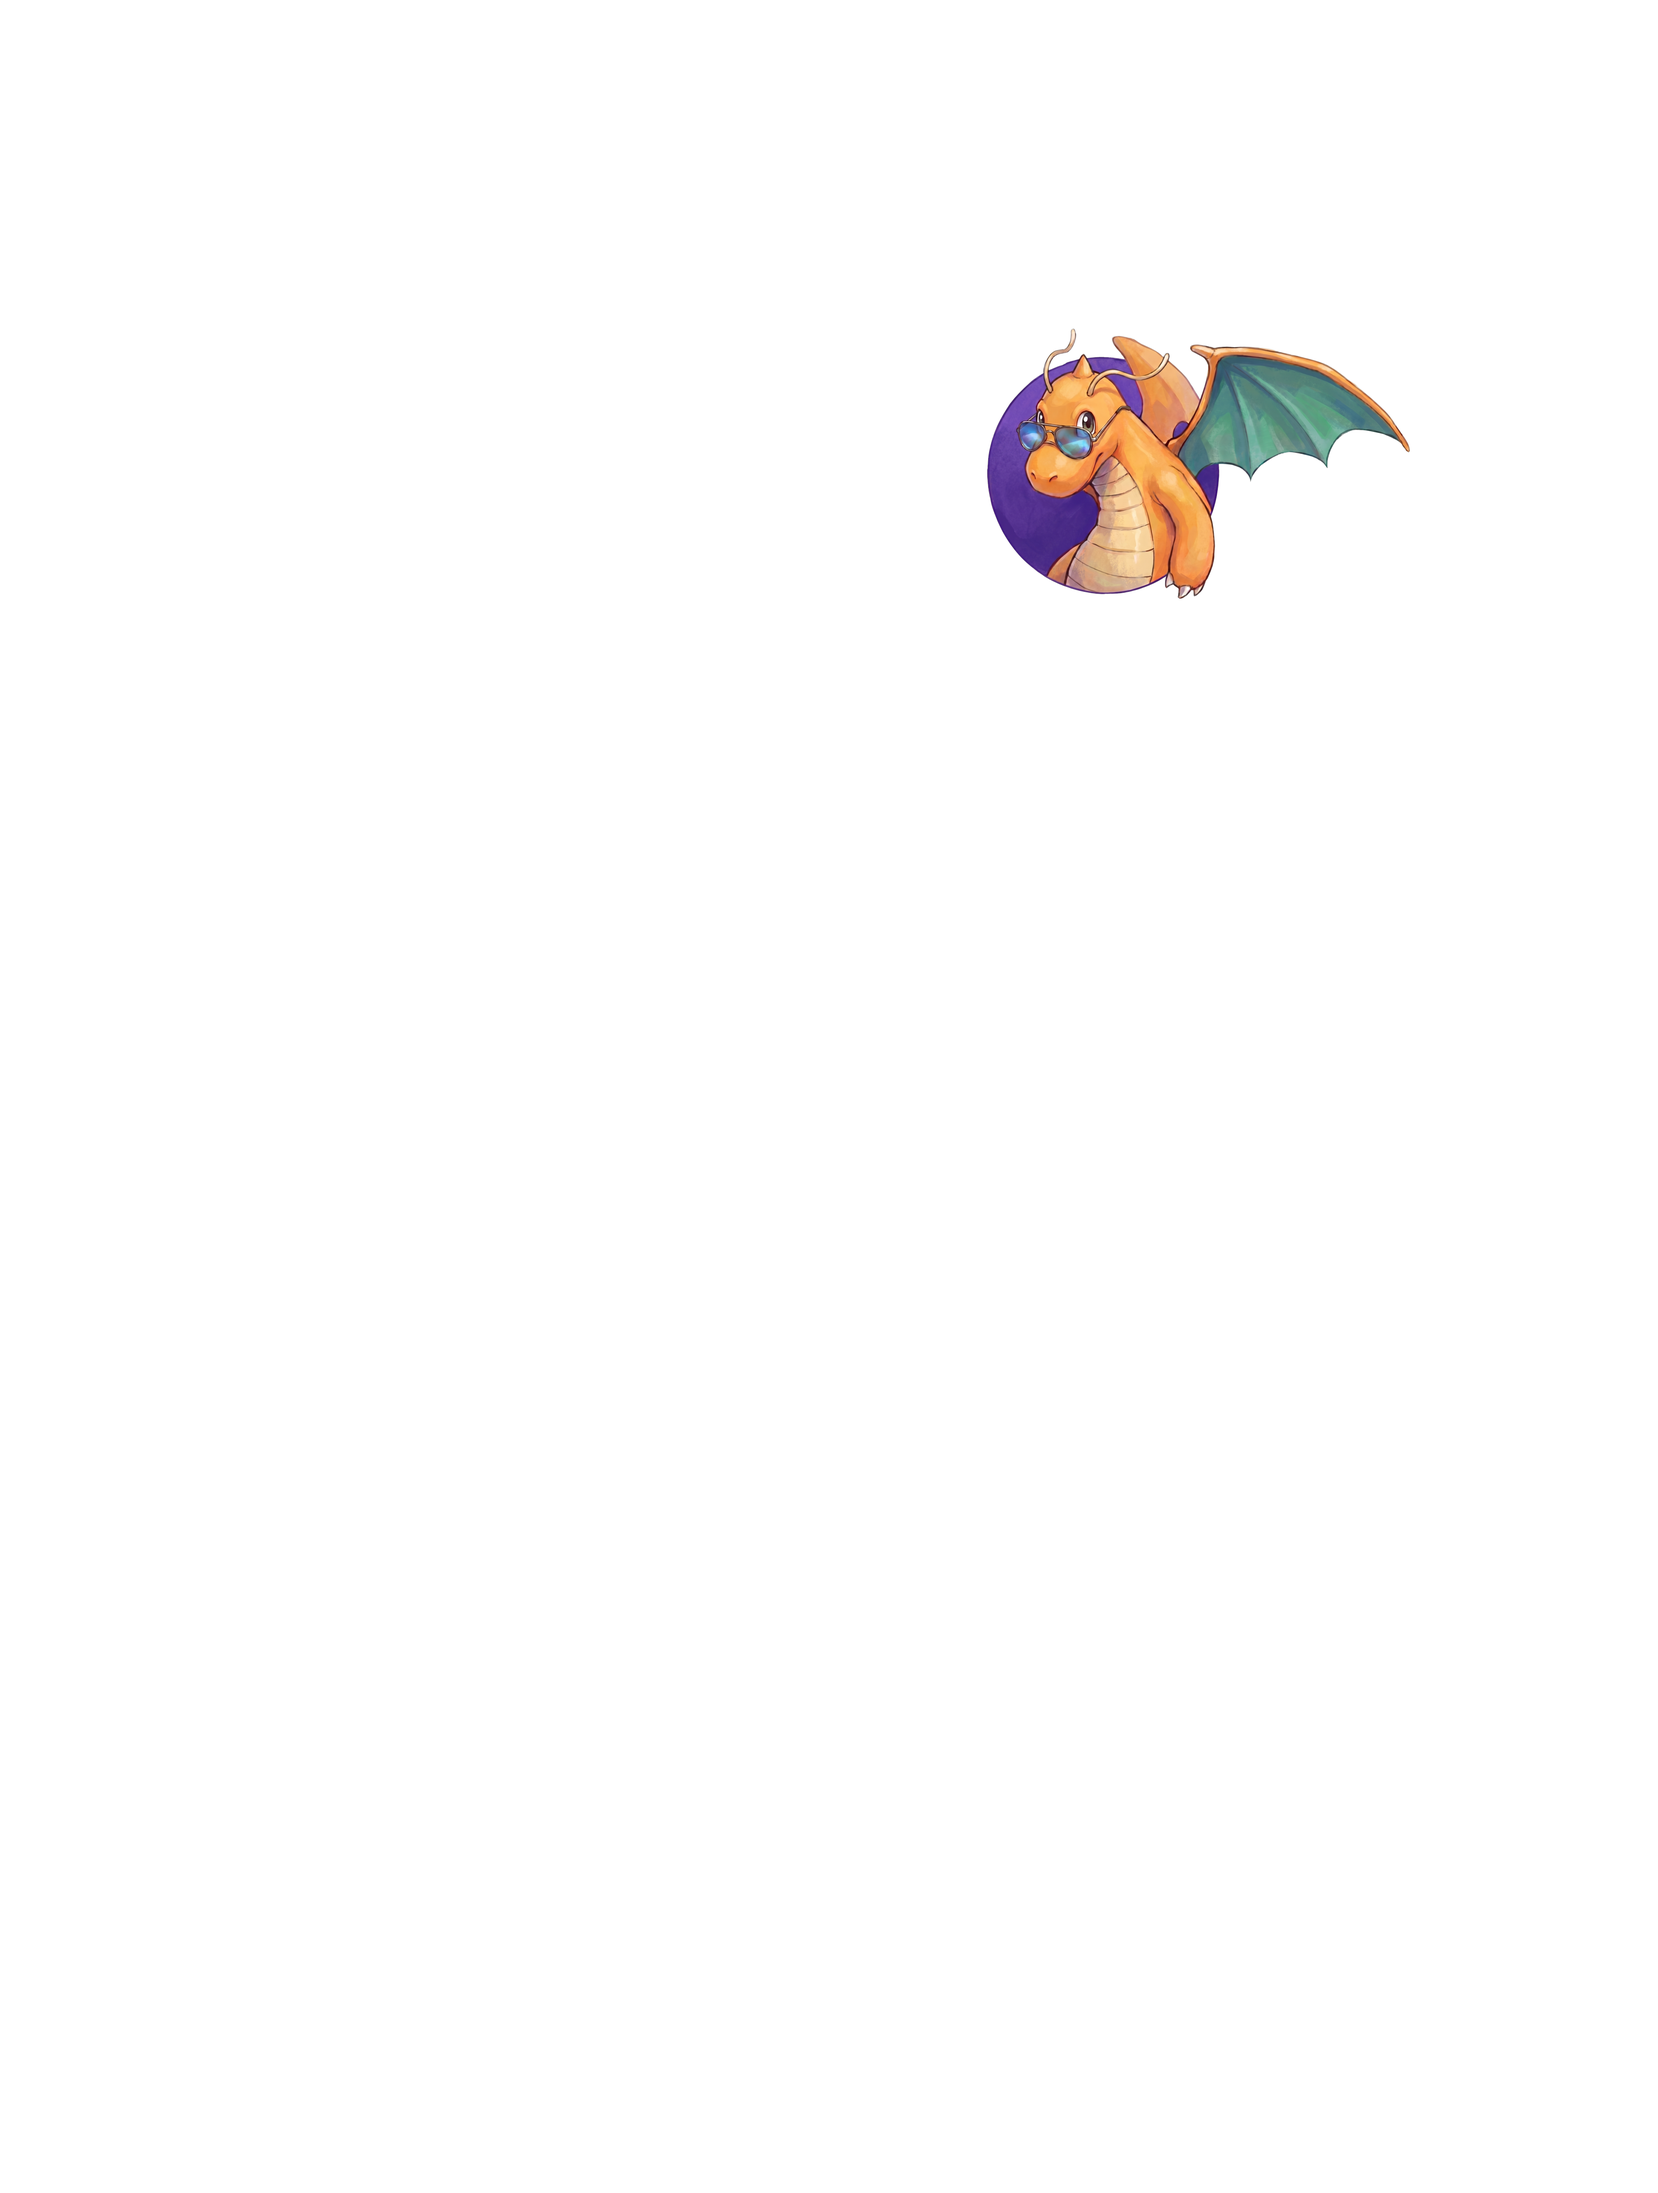
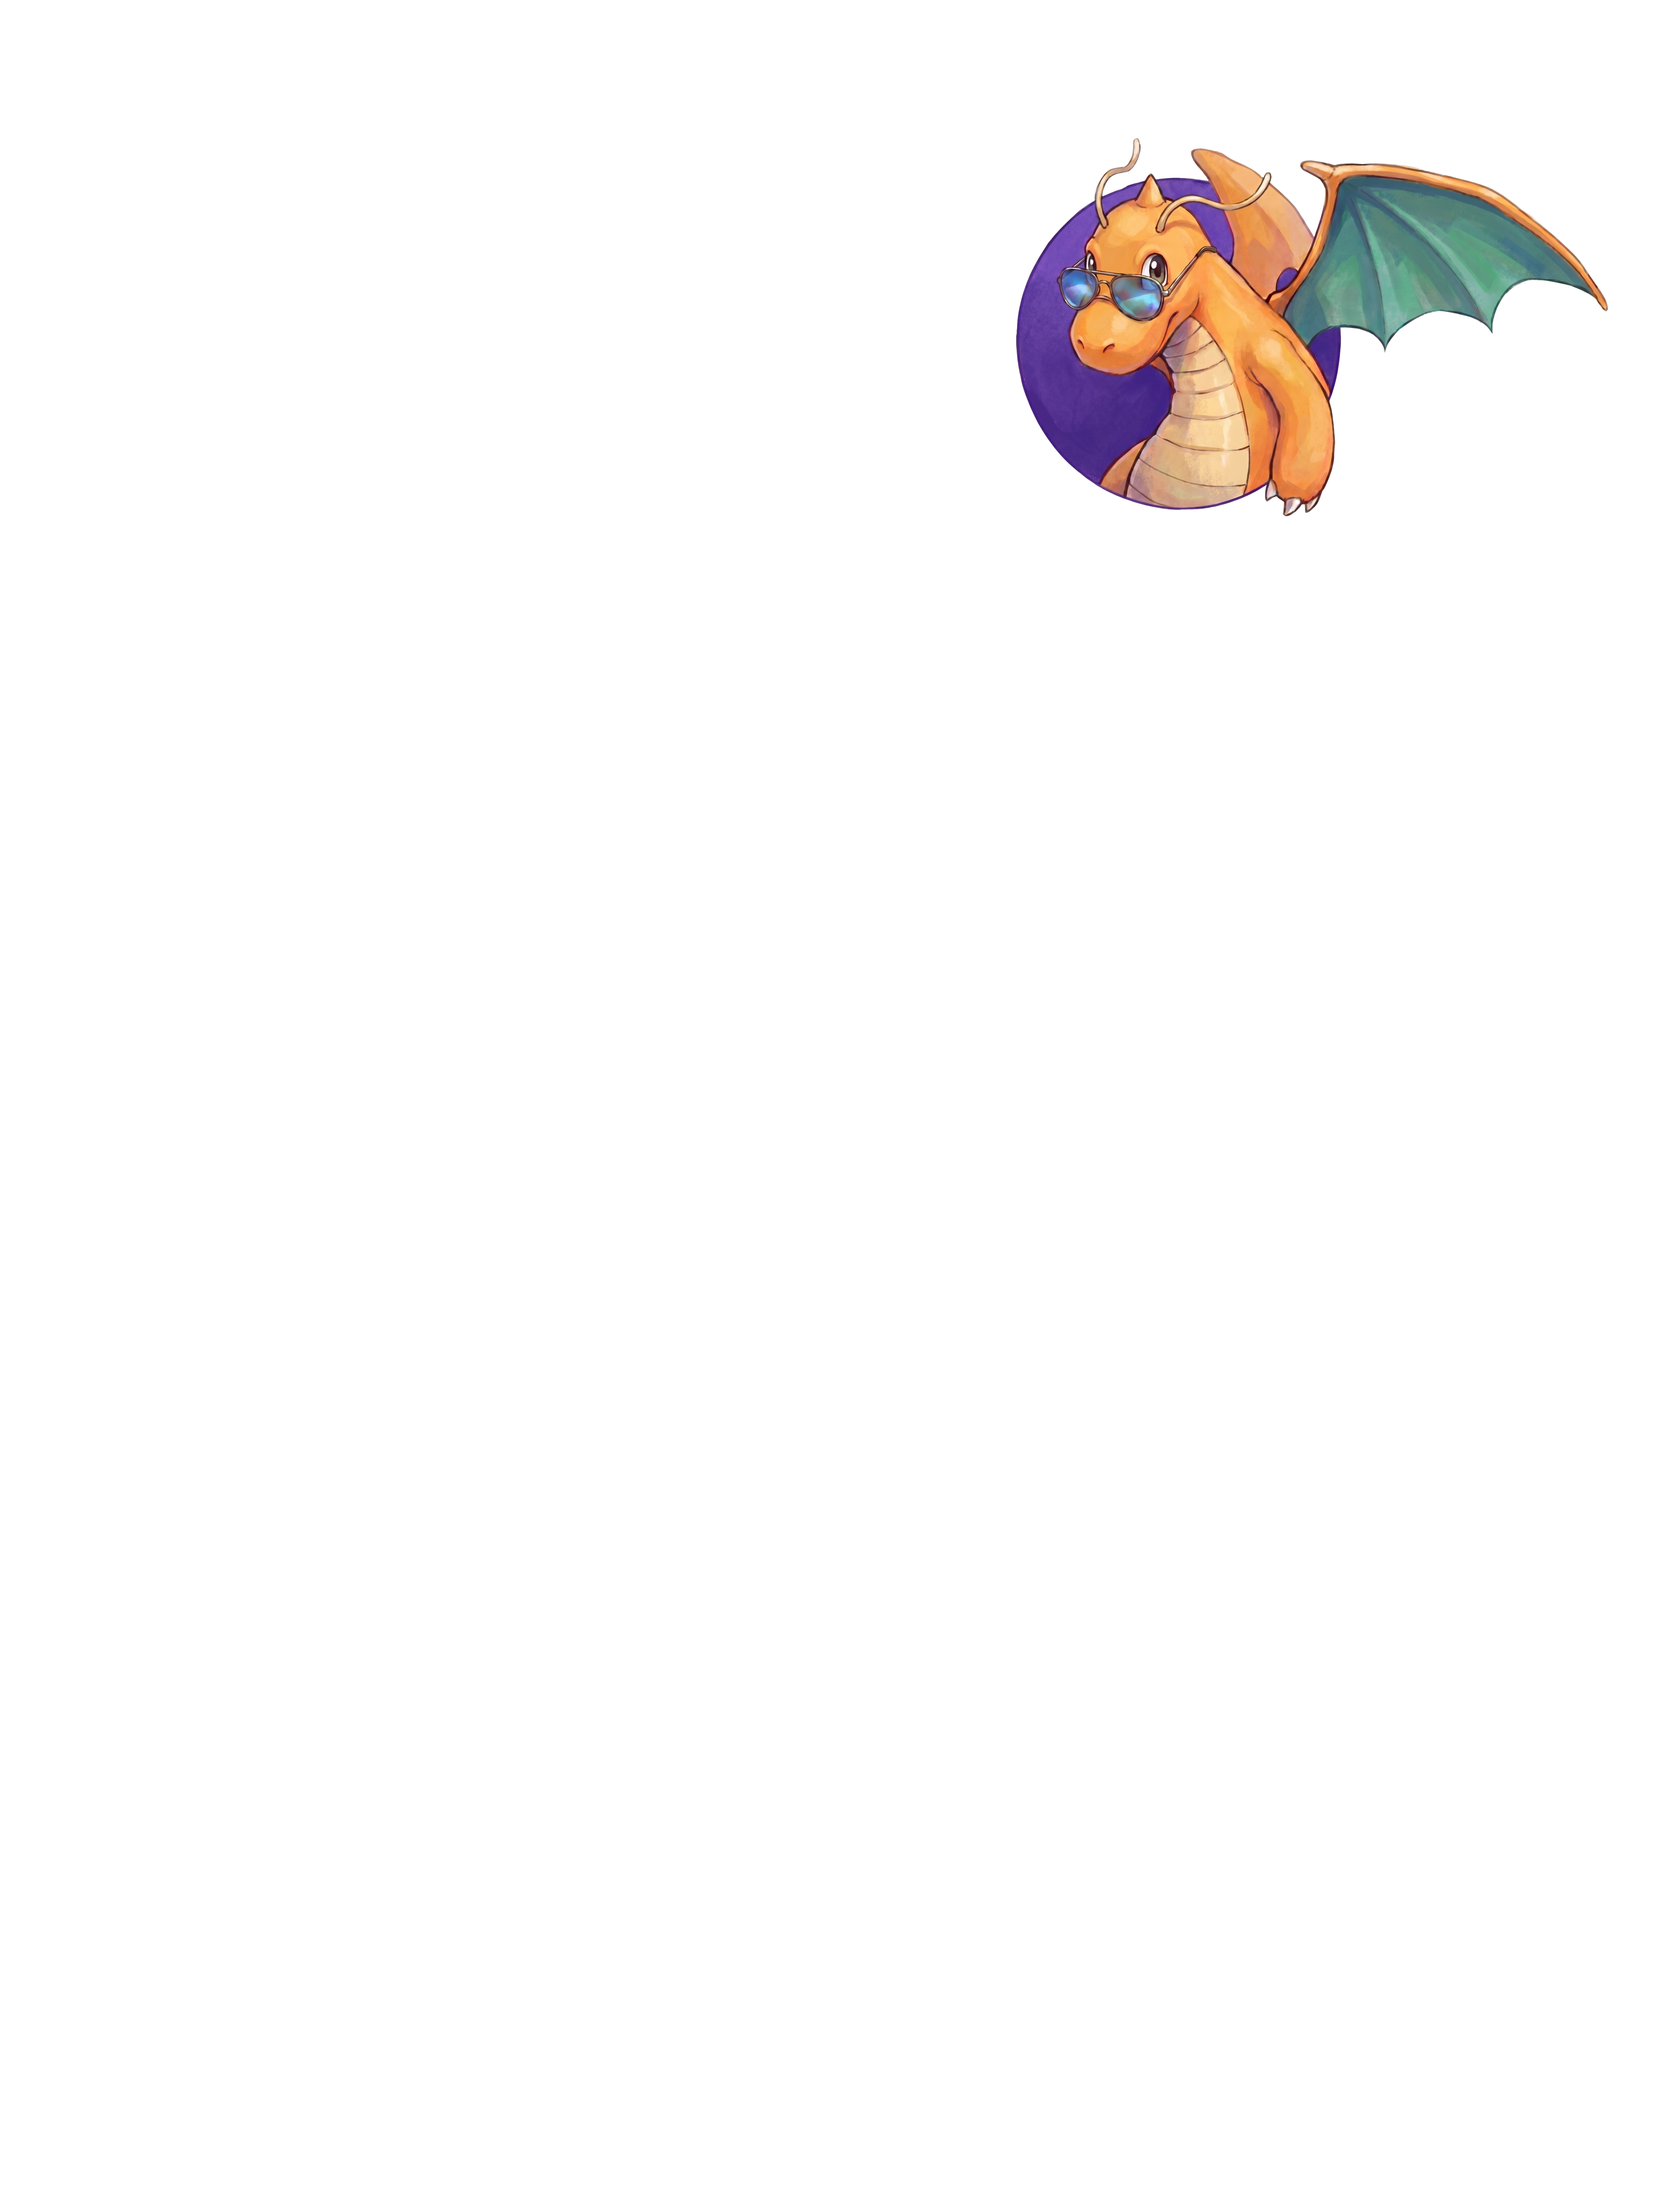
fix: reposition all designs to top-right of print area + add snorlax [skip ci]
Logo 1400px in angolo alto-destra del canvas 3661x4843 (80px margini).
Corrisponde al petto sinistro del portatore. Aggiunto snorlax con
printFileUrl e neckLabelUrl.

Changed region(s): [[0.5916, 0.0624, 0.9653, 0.2806]]

diff --git a/src/data/admin-products.js b/src/data/admin-products.js
@@ -986,6 +986,8 @@ export const adminProducts = [
     ],
     "featured": 1,
     "gelatoProductId": "6b8f79fc-b20c-463a-93be-5fc41b9ca362",
+    "printFileUrl": "https://raw.githubusercontent.com/pellegrinottijoshua-hash/jayl-store/main/public/designs/snorlax-pok-mon-t-shirt/design.png",
+    "neckLabelUrl": "https://raw.githubusercontent.com/pellegrinottijoshua-hash/jayl-store/main/public/designs/jayl-neck-label.png",
     "movement": "cool Pokèmon",
     "adminManaged": true,
     "primaryKeywords": [
